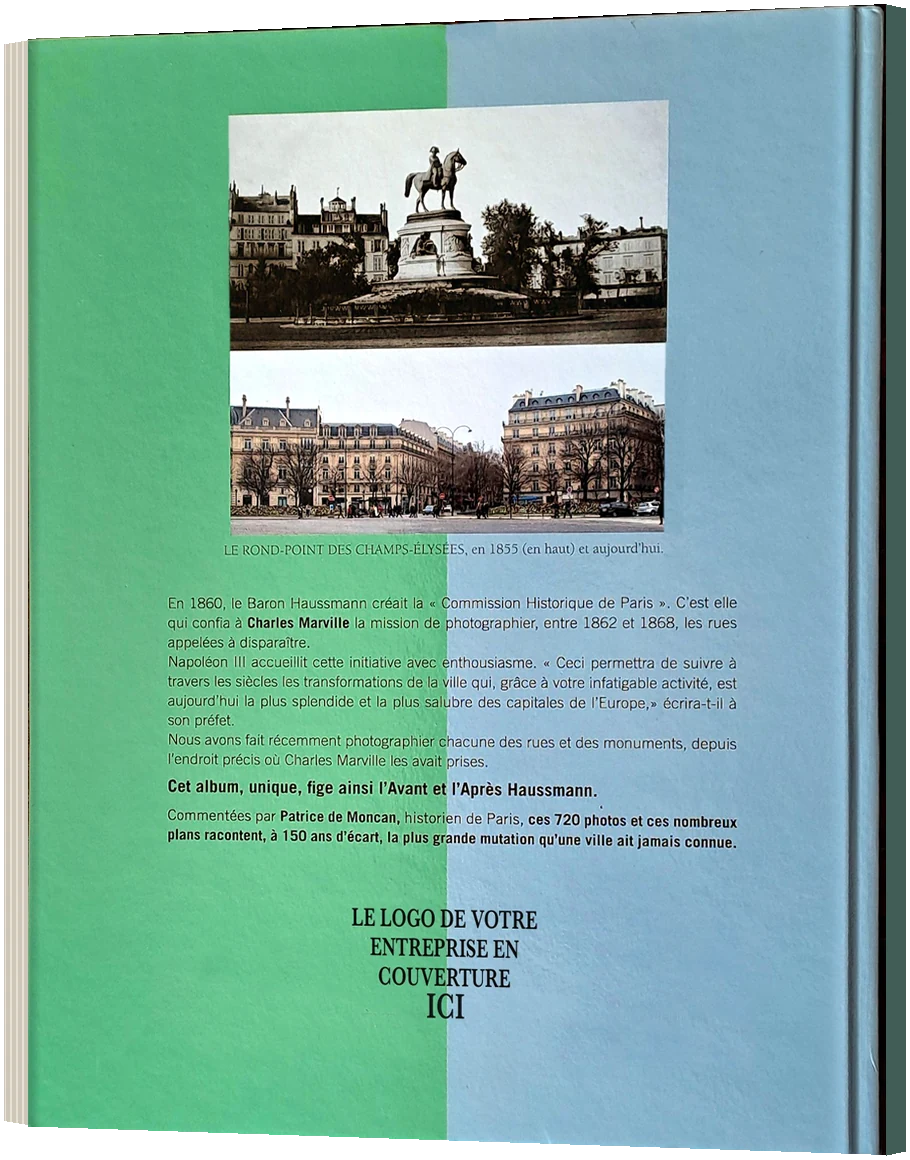
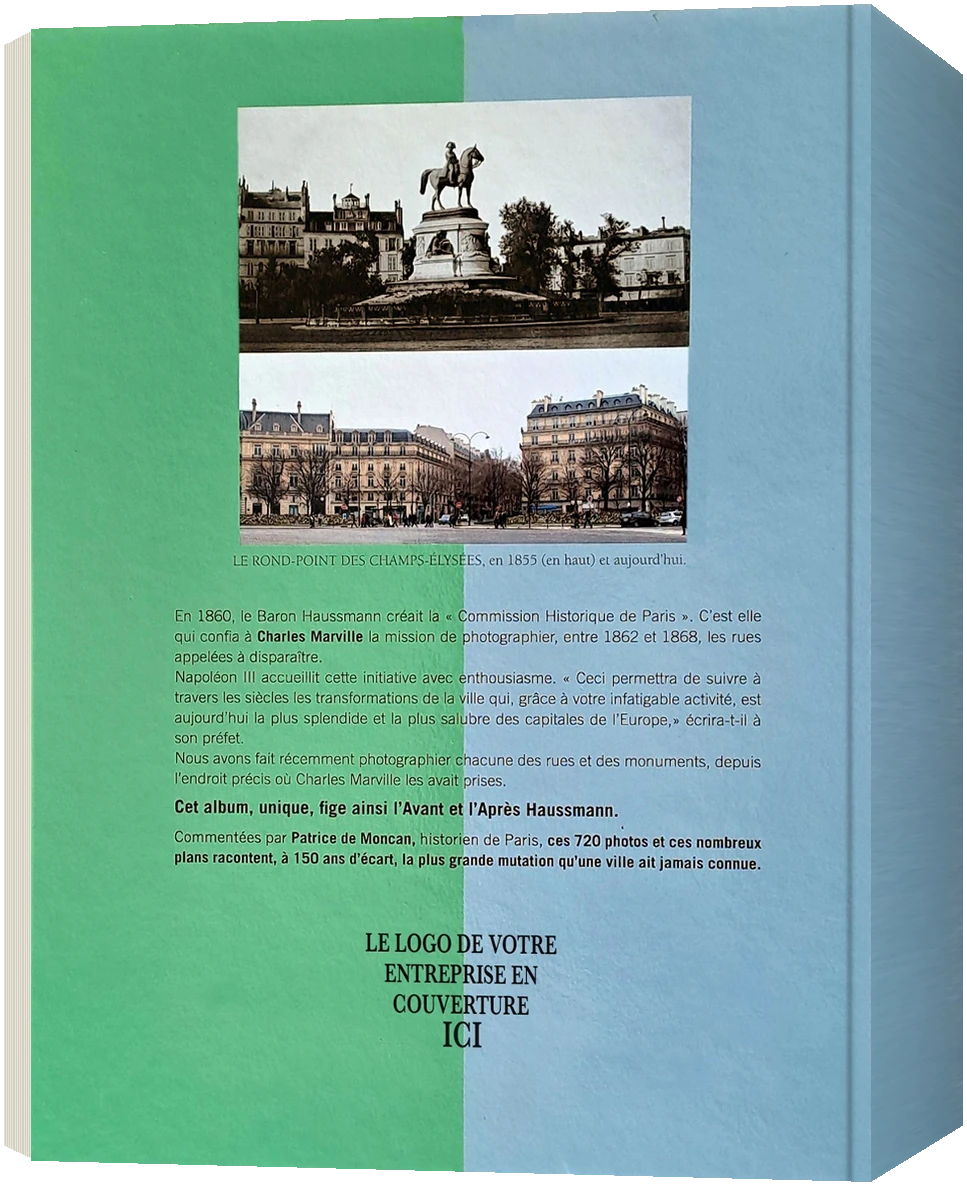
Livre Paris avant-après en relief : beaucoup plus épais, couleurs d'origine respectées
Claude-Session: https://claude.ai/code/session_01MNdvdNrUp6L3XHMz5Kvpag

Changed region(s): [[0.0, 0.0, 1.0, 1.0]]

diff --git a/scripts/landing/livre_3d.py b/scripts/landing/livre_3d.py
@@ -1,71 +1,63 @@
-# Génère un livre en relief (1re ou 4e de couverture) à partir d’une image plate.
-# Usage : python3 scripts/landing/livre_3d.py couverture.jpg sortie.webp front|back
+# Génère un livre en relief (1re ou 4e de couverture) à partir d'une image plate.
+# Usage : python3 scripts/landing/livre_3d.py couverture.jpg sortie.webp front|back [epaisseur]
 import sys, numpy as np
-from PIL import Image, ImageDraw, ImageFilter
+from PIL import Image, ImageDraw
+
 def coeffs(dst, src):
-    # maps output (dst) pts -> input (src) pts
     A=[];B=[]
     for (x,y),(u,v) in zip(dst,src):
         A.append([x,y,1,0,0,0,-u*x,-u*y]); B.append(u)
         A.append([0,0,0,x,y,1,-v*x,-v*y]); B.append(v)
     return np.linalg.solve(np.array(A,float),np.array(B,float)).tolist()
-def render(src_path,out_path,side='front',W=1100):
+
+def warp(img, dst, size):
+    w,h=img.size
+    return img.convert('RGBA').transform(size,Image.PERSPECTIVE,coeffs(dst,[(0,0),(w,0),(w,h),(0,h)]),Image.BICUBIC)
+
+def render(src_path,out_path,side='front',thick=0.11,W=1200):
     cov=Image.open(src_path).convert('RGB')
-    cw,ch=cov.size; ar=ch/cw
-    fw=int(W*0.78); fh=int(fw*ar)
-    cov=cov.resize((fw,fh),Image.LANCZOS)
-    # --- surface : rainure de charnière + léger vernis
-    a=np.array(cov).astype(float)
-    x=np.arange(fw)[None,:,None]/fw
-    hinge_pos=0.035 if side=='front' else 0.965
-    d=np.abs(x-hinge_pos)
-    groove=1-0.38*np.exp(-(d/0.006)**2)          # creux sombre
-    lift=1+0.10*np.exp(-((x-(hinge_pos+(0.012 if side=='front' else -0.012)))/0.01)**2)
-    edge=1-0.25*np.clip((0.015-np.minimum(x,1-x))/0.015,0,1)  # bords assombris
-    gl=1+0.06*np.exp(-((x-0.35)/0.25)**2)
-    a=np.clip(a*groove*lift*edge*gl,0,255).astype('uint8')
-    cov=Image.fromarray(a)
-    H=int(fh*1.12); canvas=Image.new('RGBA',(W,H),(0,0,0,0))
-    top=int(fh*0.05)
-    # perspective : bord de la reliure plein, bord opposé raccourci
-    shrink=0.055*fh
+    fw=int(W*0.70); fh=int(fw*cov.height/cov.width)
+    cov=cov.resize((fw,fh),Image.LANCZOS)       # couleurs d'origine, non retouchées
+    sp=int(fw*thick)                             # épaisseur visible (dos ou tranche)
+    H=int(fh*1.10); size=(W,H); top=int(fh*0.04)
+    k=0.06*fh                                    # fuite de perspective
+    canvas=Image.new('RGBA',size,(0,0,0,0))
     if side=='front':
-        x0=int(W*0.13); x1=x0+fw
-        dst=[(x0,top),(x1,top+shrink*0.55),(x1,top+fh-shrink*0.45),(x0,top+fh)]
+        # vue 3/4 gauche : dos à gauche, face de couverture, tranche des pages à droite
+        x0=int(W*0.06)+sp; x1=x0+fw
+        face=[(x0,top),(x1,top+k*0.35),(x1,top+fh-k*0.30),(x0,top+fh)]
+        spine=[(x0-sp,top+k),(x0,top),(x0,top+fh),(x0-sp,top+fh-k*0.8)]
+        pg=int(sp*0.30)
+        pages=[(x1,top+k*0.35+3),(x1+pg,top+k*0.55+3),(x1+pg,top+fh-k*0.48-3),(x1,top+fh-k*0.30-3)]
+        strip=cov.crop((0,0,max(2,int(fw*0.02)),fh))   # couleur du dos = bord gauche de la couverture
     else:
-        x1=int(W*0.87); x0=x1-fw
-        dst=[(x0,top+shrink*0.55),(x1,top),(x1,top+fh),(x0,top+fh-shrink*0.45)]
-    src=[(0,0),(fw,0),(fw,fh),(0,fh)]
-    # tranche de pages (côté opposé à la reliure)
+        x1=W-int(W*0.06)-sp; x0=x1-fw
+        face=[(x0,top+k*0.35),(x1,top),(x1,top+fh),(x0,top+fh-k*0.30)]
+        spine=[(x1,top),(x1+sp,top+k),(x1+sp,top+fh-k*0.8),(x1,top+fh)]
+        pg=int(sp*0.30)
+        pages=[(x0,top+k*0.35+3),(x0-pg,top+k*0.55+3),(x0-pg,top+fh-k*0.48-3),(x0,top+fh-k*0.30-3)]
+        strip=cov.crop((fw-max(2,int(fw*0.02)),0,fw,fh))
+    # dos : bande de couleur prolongée, légèrement ombrée pour le volume
+    s=np.array(strip.resize((sp,fh))).astype(float)
+    shade=np.linspace(0.72,0.88,sp)[None,:,None] if side=='front' else np.linspace(0.88,0.72,sp)[None,:,None]
+    s=Image.fromarray(np.clip(s*shade,0,255).astype('uint8'))
+    canvas.alpha_composite(warp(s,spine,size))
+    # tranche des pages : papier crème rayé
     d=ImageDraw.Draw(canvas)
-    pw=int(W*0.022)
-    if side=='front':
-        (ax,ay),(bx,by)=dst[1],dst[2]
-        pages=[(ax,ay+2),(ax+pw,ay+6),(bx+pw,by-6),(bx,by-2)]
-    else:
-        (ax,ay),(bx,by)=dst[0],dst[3]
-        pages=[(ax,ay+2),(ax-pw,ay+6),(bx-pw,by-6),(bx,by-2)]
-    d.polygon(pages,fill=(238,231,214,255))
-    n=60
+    d.polygon(pages,fill=(240,234,220,255))
+    (ax,ay),(bx,by),(cx,cy),(ex,ey)=pages
+    n=max(30,pg//2)
     for i in range(1,n):
-        t=i/n
-        if side=='front': xa=ax+pw*t; ya=ay+2+4*t; xb=bx+pw*t; yb=by-2-4*t
-        else: xa=ax-pw*t; ya=ay+2+4*t; xb=bx-pw*t; yb=by-2-4*t
-        c=205+int(25*((i%3)==0))
-        d.line([(xa,ya),(xb,yb)],fill=(c,c-6,c-20,255),width=1)
-    # dos (reliure) visible en fine bande
-    sw=int(W*0.018)
-    col=tuple(int(v*0.55) for v in np.array(cov).reshape(-1,3)[::97].mean(0))
-    if side=='front':
-        (px,py),(qx,qy)=dst[0],dst[3]
-        d.polygon([(px-sw,py+4),(px,py),(qx,qy),(qx-sw,qy-4)],fill=col+(255,))
-    else:
-        (px,py),(qx,qy)=dst[1],dst[2]
-        d.polygon([(px,py),(px+sw,py+4),(qx+sw,qy-4),(qx,qy)],fill=col+(255,))
-    face=cov.convert('RGBA').transform((W,H),Image.PERSPECTIVE,coeffs(dst,src),Image.BICUBIC)
-    canvas.alpha_composite(face)
+        t=i/n; c=212+int(20*(i%2))
+        d.line([(ax+(bx-ax)*t,ay+(by-ay)*t),(ex+(cx-ex)*t,ey+(cy-ey)*t)],fill=(c,c-5,c-16,255),width=1)
+    # couverture : couleurs intactes, simple liseré de charnière
+    a=np.array(cov).astype(float)
+    hp=0.025 if side=='front' else 0.975
+    x=np.arange(fw)[None,:,None]/fw
+    a*=1-0.22*np.exp(-((x-hp)/0.004)**2)
+    canvas.alpha_composite(warp(Image.fromarray(np.clip(a,0,255).astype('uint8')),face,size))
     bb=canvas.getbbox(); canvas=canvas.crop((bb[0]-4,bb[1]-4,bb[2]+4,bb[3]+4))
-    canvas.save(out_path,quality=88,method=6)
-    print(out_path,canvas.size)
+    canvas.save(out_path,quality=90,method=6); print(out_path,canvas.size)
+
 if __name__=='__main__':
-    render(sys.argv[1],sys.argv[2],sys.argv[3])
+    render(sys.argv[1],sys.argv[2],sys.argv[3],float(sys.argv[4]) if len(sys.argv)>4 else 0.11)
